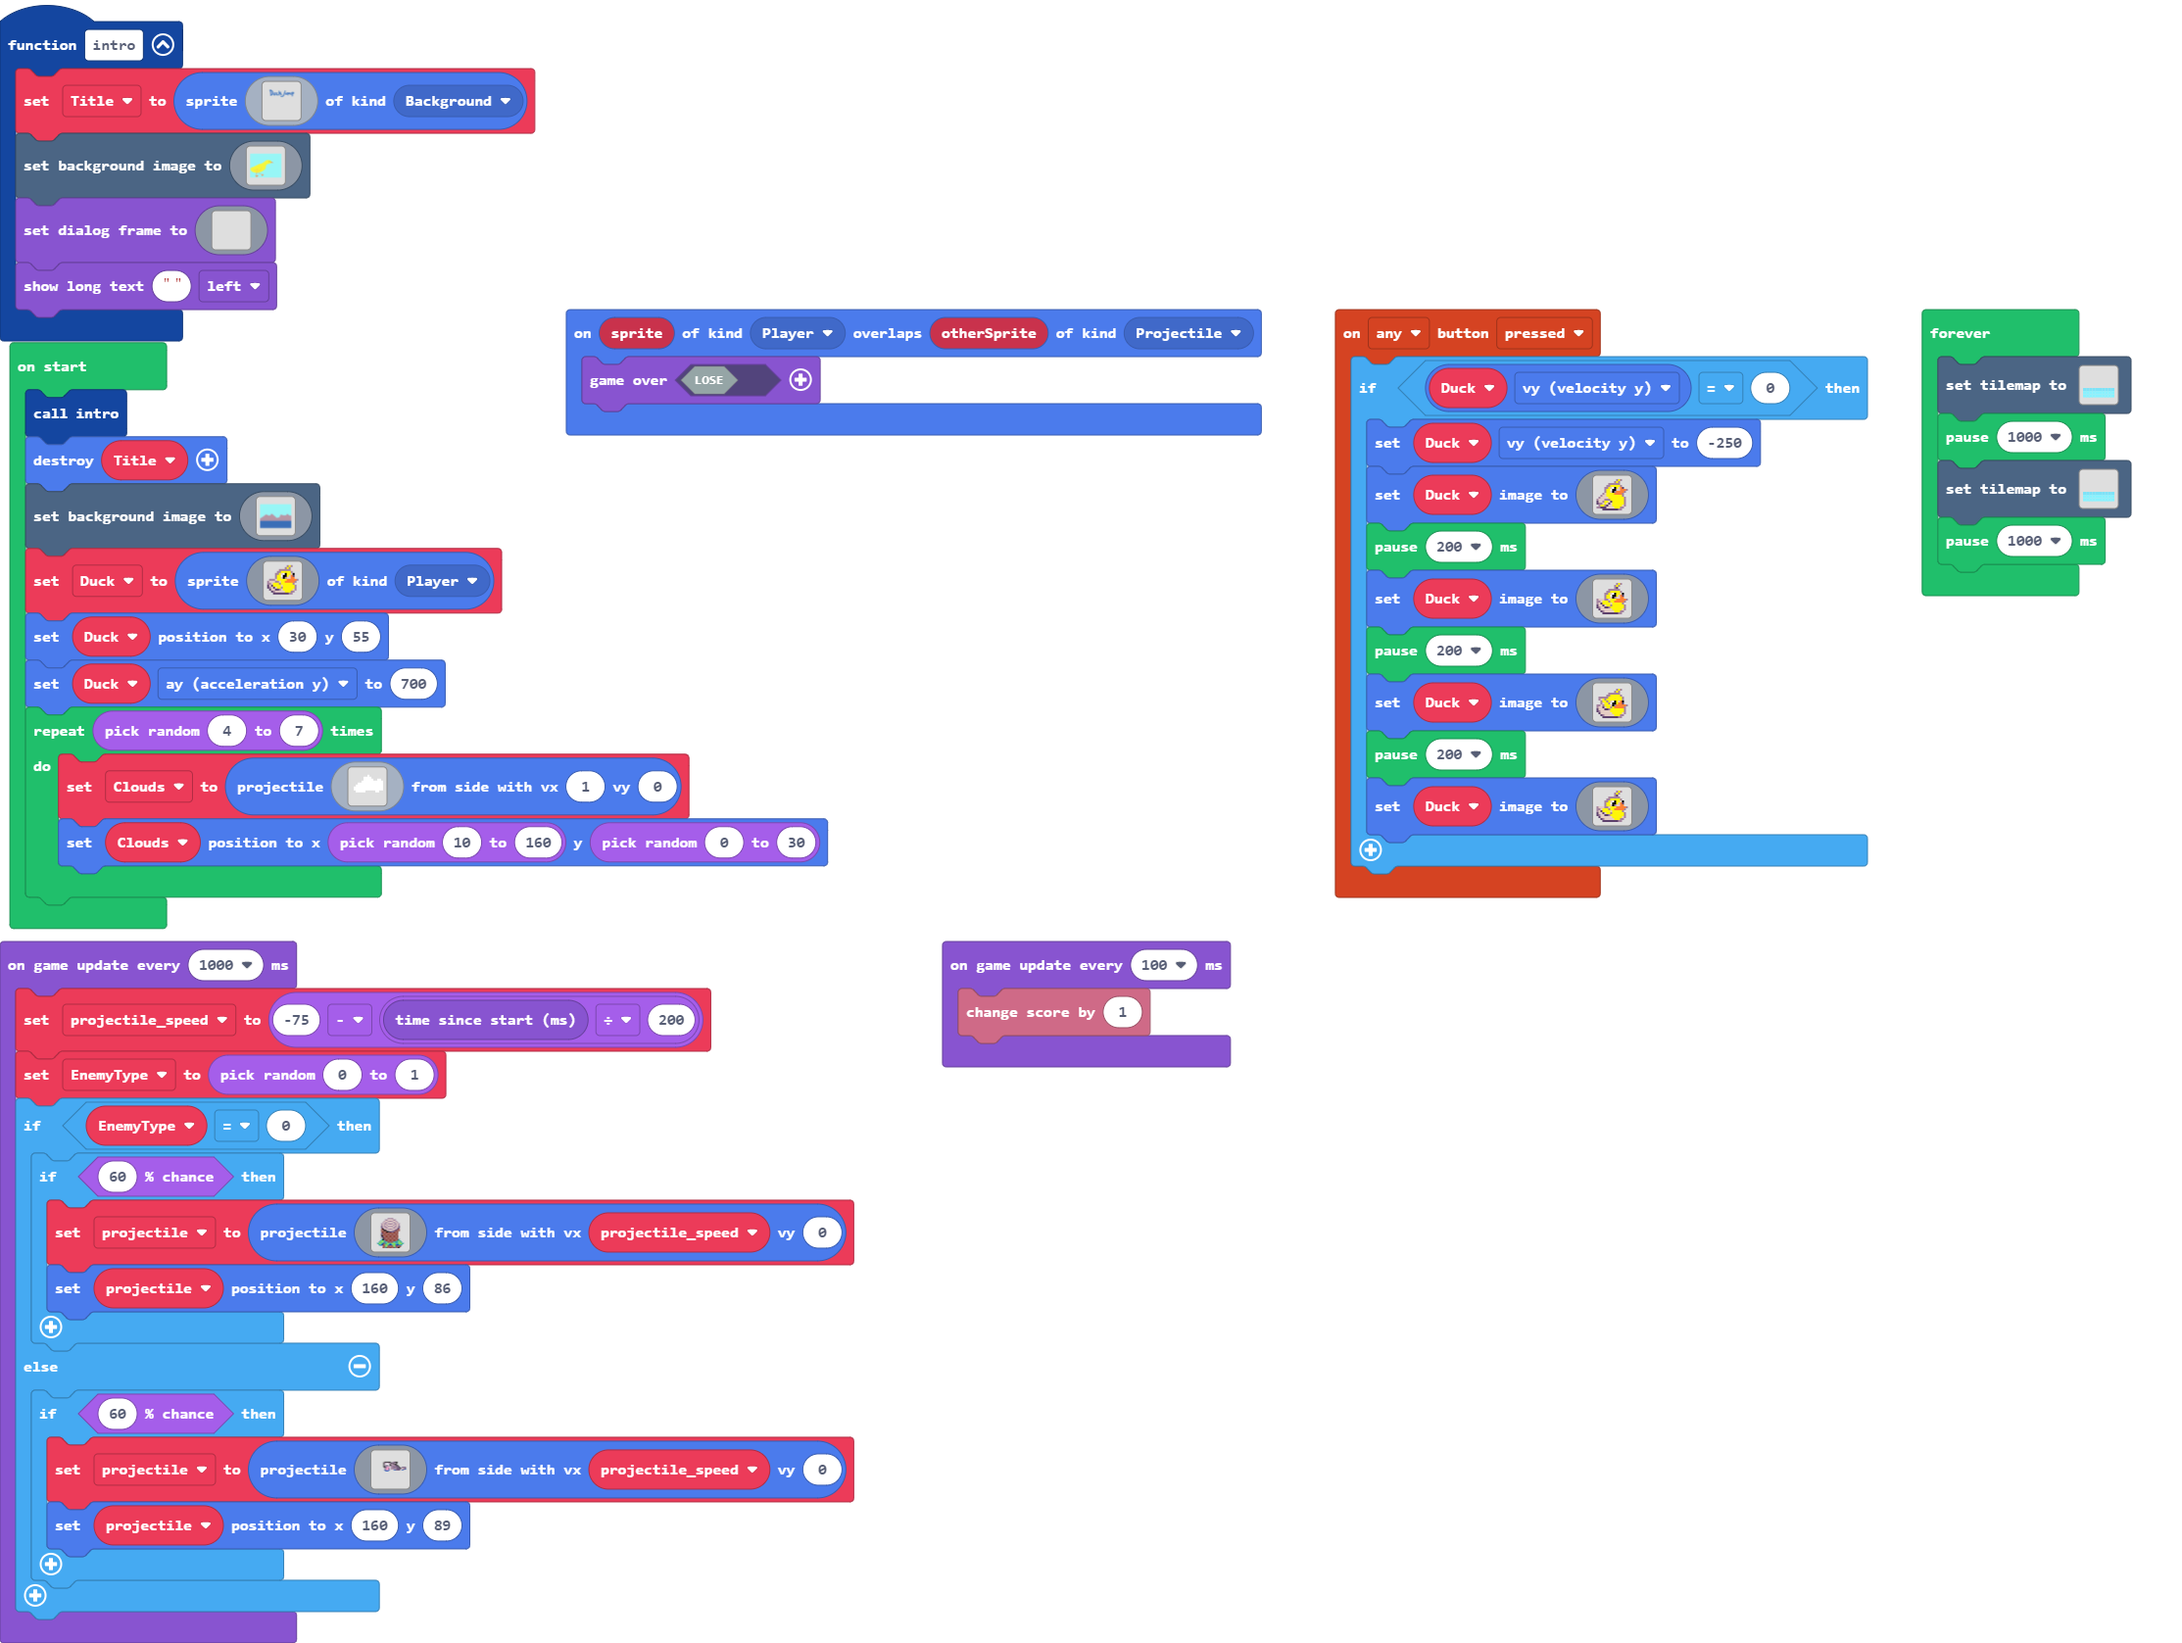
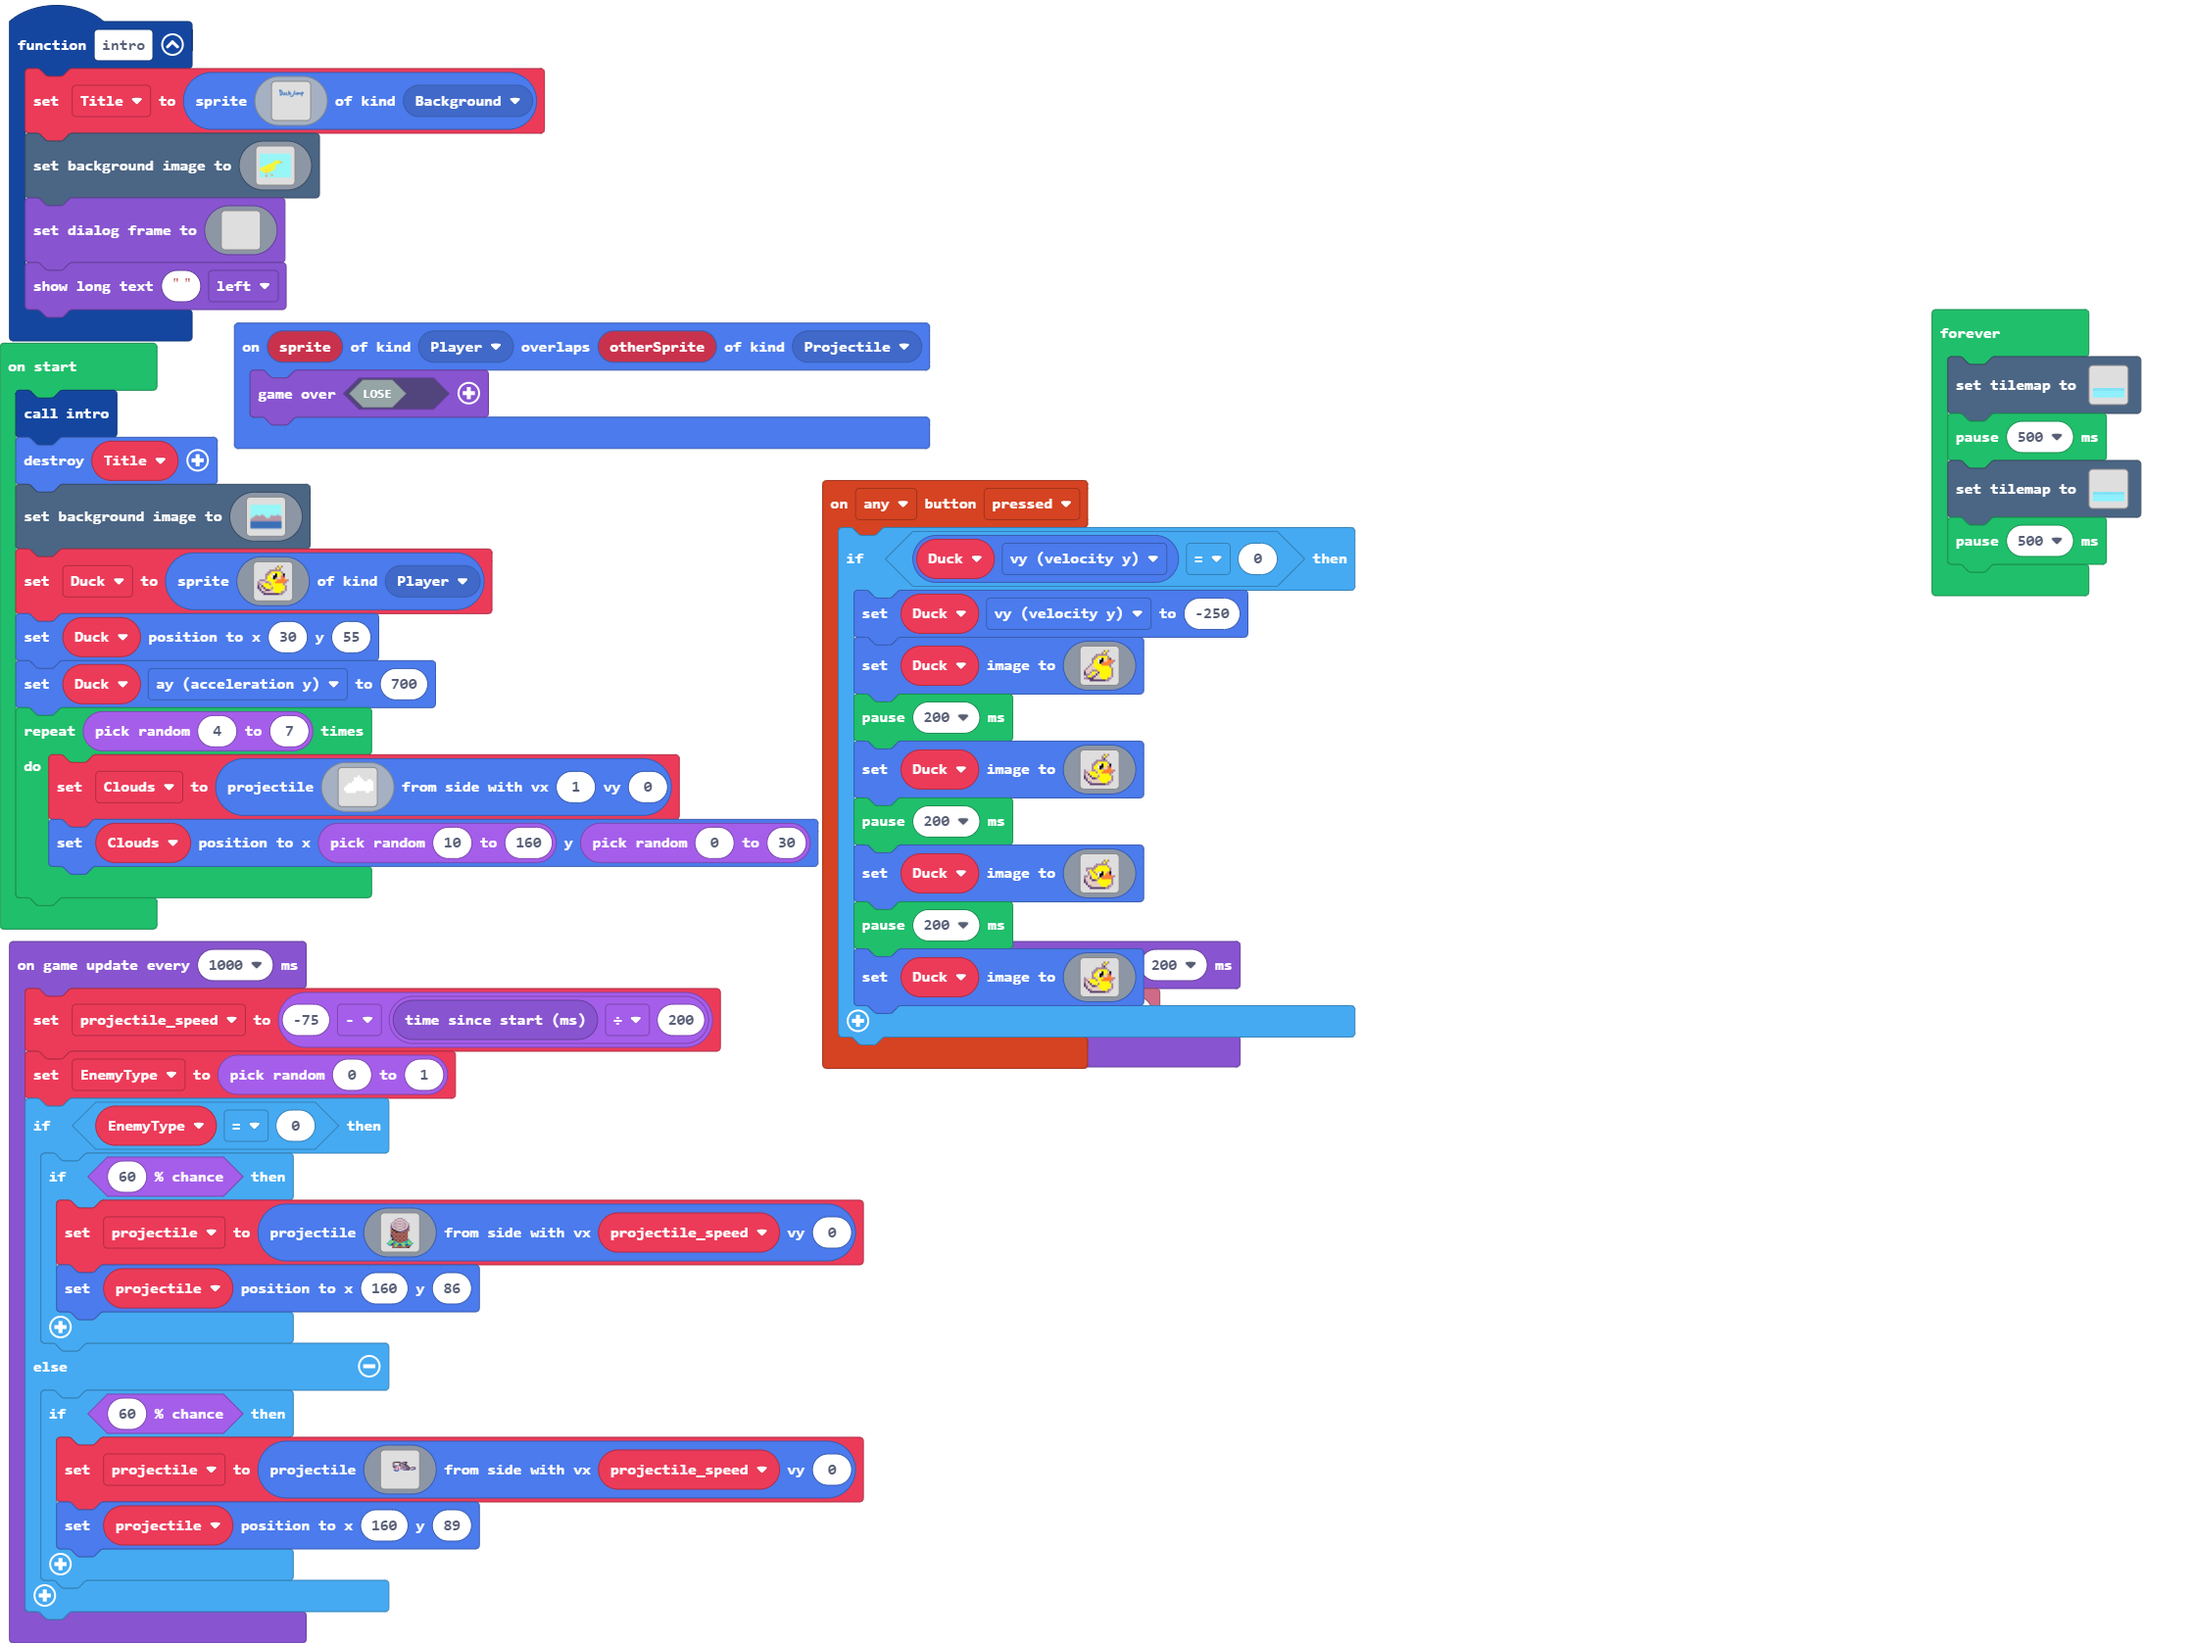
Update main.blocks, main.ts, tilemap.g.jres, tilemap.g.ts

diff --git a/tilemap.g.ts b/tilemap.g.ts
@@ -54,17 +54,6 @@ namespace myTiles {
 2 2 2 2 2 2 2 2 2 2 
 2 2 2 2 2 2 2 2 2 2 
 `, [myTiles.transparency16,myTiles.tile1,myTiles.tile2,myTiles.tile3], TileScale.Sixteen);
-            case "level4":
[1 lines of base64/hex data omitted]
-. . . . . . . . . . 
-. . . . . . . . . . 
-. . . . . . . . . . 
-. . . . . . . . . . 
-. . . . . . . . . . 
-. . . . . . . . . . 
-2 2 2 2 2 2 2 2 2 2 
-2 2 2 2 2 2 2 2 2 2 
-`, [myTiles.transparency16,myTiles.tile1,myTiles.tile2,myTiles.tile3], TileScale.Sixteen);
             case "level5":
             case "level5":return tiles.createTilemap(hex`1000100000000000000000000000000000000000000000000000000000000000000000000000000000000000000000000000000000000000000000000000000000000000000000000000000000000000000000000000000000000000000000000000000000000000000000000000000000000000000000000000000000000000000000000000000000000000000000000000000000000000000000000000000000000000000000000000000000000000000000000000000000000000000000000000000000000000000000000000000000000000000000000000000000000000000000000000000000000000000000000000000000000000000000000000000000000000`, img`
 . . . . . . . . . . . . . . . . 
@@ -86,6 +75,55 @@ namespace myTiles {
 `, [myTiles.transparency16], TileScale.Sixteen);
             case "level6":
             case "level6":return tiles.createTilemap(hex`1000100000000000000000000000000000000000000000000000000000000000000000000000000000000000000000000000000000000000000000000000000000000000000000000000000000000000000000000000000000000000000000000000000000000000000000000000000000000000000000000000000000000000000000000000000000000000000000000000000000000000000000000000000000000000000000000000000000000000000000000000000000000000000000000000000000000000000000000000000000000000000000000000000000000000000000000000000000000000000000000000000000000000000000000000000000000000`, img`
+. . . . . . . . . . . . . . . . 
+. . . . . . . . . . . . . . . . 
+. . . . . . . . . . . . . . . . 
+. . . . . . . . . . . . . . . . 
+. . . . . . . . . . . . . . . . 
+. . . . . . . . . . . . . . . . 
+. . . . . . . . . . . . . . . . 
+. . . . . . . . . . . . . . . . 
+. . . . . . . . . . . . . . . . 
+. . . . . . . . . . . . . . . . 
+. . . . . . . . . . . . . . . . 
+. . . . . . . . . . . . . . . . 
+. . . . . . . . . . . . . . . . 
+. . . . . . . . . . . . . . . . 
+. . . . . . . . . . . . . . . . 
+. . . . . . . . . . . . . . . . 
+`, [myTiles.transparency16], TileScale.Sixteen);
+            case "level7":
+            case "level7":return tiles.createTilemap(hex`1000100000000000000000000000000000000000000000000000000000000000000000000000000000000000000000000000000000000000000000000000000000000000000000000000000000000000000000000000000000000000000000000000000000000000000000000000000000000000000000000000000000000000000000000000000000000000000000000000000000000000000000000000000000000000000000000000000000000000000000000000000000000000000000000000000000000000000000000000000000000000000000000000000000000000000000000000000000000000000000000000000000000000000000000000000000000000`, img`
+. . . . . . . . . . . . . . . . 
+. . . . . . . . . . . . . . . . 
+. . . . . . . . . . . . . . . . 
+. . . . . . . . . . . . . . . . 
+. . . . . . . . . . . . . . . . 
+. . . . . . . . . . . . . . . . 
+. . . . . . . . . . . . . . . . 
+. . . . . . . . . . . . . . . . 
+. . . . . . . . . . . . . . . . 
+. . . . . . . . . . . . . . . . 
+. . . . . . . . . . . . . . . . 
+. . . . . . . . . . . . . . . . 
+. . . . . . . . . . . . . . . . 
+. . . . . . . . . . . . . . . . 
+. . . . . . . . . . . . . . . . 
+. . . . . . . . . . . . . . . . 
+`, [myTiles.transparency16], TileScale.Sixteen);
+            case "level4":
[1 lines of base64/hex data omitted]
+. . . . . . . . . . 
+. . . . . . . . . . 
+. . . . . . . . . . 
+. . . . . . . . . . 
+. . . . . . . . . . 
+. . . . . . . . . . 
+2 2 2 2 2 2 2 2 2 2 
+2 2 2 2 2 2 2 2 2 2 
+`, [myTiles.transparency16,myTiles.tile1,myTiles.tile2,myTiles.tile3], TileScale.Sixteen);
+            case "level8":
+            case "level8":return tiles.createTilemap(hex`1000100000000000000000000000000000000000000000000000000000000000000000000000000000000000000000000000000000000000000000000000000000000000000000000000000000000000000000000000000000000000000000000000000000000000000000000000000000000000000000000000000000000000000000000000000000000000000000000000000000000000000000000000000000000000000000000000000000000000000000000000000000000000000000000000000000000000000000000000000000000000000000000000000000000000000000000000000000000000000000000000000000000000000000000000000000000000`, img`
 . . . . . . . . . . . . . . . . 
 . . . . . . . . . . . . . . . . 
 . . . . . . . . . . . . . . . . 

diff --git a/main.ts b/main.ts
@@ -462,10 +462,10 @@ game.onUpdateInterval(1000, function () {
 })
 forever(function () {
     tiles.setTilemap(tilemap`level1`)
-    pause(1000)
-    tiles.setTilemap(tilemap`level1`)
-    pause(1000)
+    pause(500)
+    tiles.setTilemap(tilemap`level4`)
+    pause(500)
 })
-game.onUpdateInterval(100, function () {
+game.onUpdateInterval(200, function () {
     info.changeScoreBy(1)
 })
